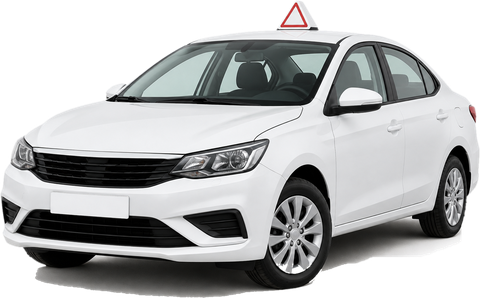
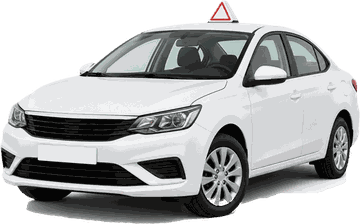
v1.144: gear toggles Settings, hide notification controls, lighter load
Claude-Session: https://claude.ai/code/session_01NZDyM4Sm4ow7Wf9g33mTnT

Changed region(s): [[0.5806, 0.0312, 0.6417, 0.0938], [0.9778, 0.375, 1.0, 0.4062], [0.6111, 0.9062, 0.6417, 0.9375]]

diff --git a/app.js b/app.js
@@ -1000,7 +1000,10 @@ document.querySelectorAll("[data-close]").forEach(b=>b.onclick=()=>b.closest("di
 ["wStart","wEnd"].forEach(id=>$(id).addEventListener("change",saveWork));
 const logMenuToggle=$("logMenuToggle"),showLogSettings=()=>{$("logRecordsPanel").classList.add("hidden");$("logSettingsPanel").classList.remove("hidden");renderPrayerPreview();$("logSettingsBack").focus();},showLogRecords=()=>{$("logSettingsPanel").classList.add("hidden");$("logRecordsPanel").classList.remove("hidden");};
 logMenuToggle.onclick=showLogSettings;
-const openSettings=()=>{document.querySelector('.tab[data-tab="log"]').click();showLogSettings();};$("hdrSettings").onclick=openSettings;$("hdrBell").onclick=()=>{openSettings();$("pushBox")?.scrollIntoView({block:"center"});};$("todayViewAll").onclick=()=>{document.querySelector('.tab[data-tab="calendar"]').click();setCalView("day");};$("prayerEdit").onclick=()=>{document.querySelector('.tab[data-tab="log"]').click();showLogSettings();$("pManualOn").scrollIntoView({block:"center"});};
+let settingsFrom=null;
+const settingsOpen=()=>document.querySelector(".tab.active")?.dataset.tab==="log"&&!$("logSettingsPanel").classList.contains("hidden");
+// The header gear toggles: the second tap closes Settings and returns to the screen it was opened from.
+const openSettings=()=>{if(settingsOpen()){showLogRecords();const back=settingsFrom&&settingsFrom!=="log"?settingsFrom:null;settingsFrom=null;if(back)document.querySelector(`.tab[data-tab="${back}"]`).click();return;}settingsFrom=document.querySelector(".tab.active")?.dataset.tab||null;document.querySelector('.tab[data-tab="log"]').click();showLogSettings();};$("hdrSettings").onclick=openSettings;$("hdrBell").onclick=()=>{openSettings();$("pushBox")?.scrollIntoView({block:"center"});};$("todayViewAll").onclick=()=>{document.querySelector('.tab[data-tab="calendar"]').click();setCalView("day");};$("prayerEdit").onclick=()=>{document.querySelector('.tab[data-tab="log"]').click();showLogSettings();$("pManualOn").scrollIntoView({block:"center"});};
 $("logSettingsBack").onclick=()=>{showLogRecords();logMenuToggle.focus();};
 initWaTemplateSettings();$("addRecordBtn").onclick=newExpense;$("overviewAddLesson").onclick=()=>newRecord();$("calAddBtn").onclick=addLessonOnSelectedDay;$("calPrev").onclick=()=>calMove(-1);$("calNext").onclick=()=>calMove(1);document.querySelectorAll("[data-view]").forEach(b=>b.onclick=()=>setCalView(b.dataset.view));$("addStudentBtn").onclick=newStudent;$("fType").onchange=toggleLessonFields;
 ["logFilter","logSort","studentSearch","studentFilter","studentSort","period","periodValue"].forEach(id=>$(id).addEventListener("input",render));

diff --git a/sw.js b/sw.js
@@ -1,4 +1,4 @@
-const CACHE="nahians-schedule-cache-v207";
+const CACHE="nahians-schedule-cache-v208";
 // The app shell (pages, scripts, styles, icons) is versioned: bump CACHE on every release.
 const FILES=["./", "./index.html", "./push-config.js", "./styles.css", "./app.js", "./reports-dashboard.js", "./islamic-content.js", "./islamic.js", "./full-time-students.js", "./lesson-recovery.js", "./prayer-times.js", "./mawaqit-times.js", "./manifest.webmanifest", "./icon.svg", "./brand-car.png", "./icon-192.png", "./icon-512.png", "./icon-maskable-512.png", "./apple-touch-icon.png"];
 // The Islamic audio files never change between releases, so they live in their own cache that survives version bumps
@@ -36,7 +36,7 @@ self.addEventListener("activate",event=>{
     caches.keys()
       .then(keys=>Promise.all(keys.filter(key=>key!==CACHE&&key!==AUDIO_CACHE).map(key=>caches.delete(key))))
       .then(()=>self.clients.claim())
-      .then(()=>{audioChecked=true;return ensureAudio();})
+      .then(()=>{audioChecked=true;return new Promise(r=>setTimeout(r,15000)).then(ensureAudio);})
   );
 });
 
@@ -49,7 +49,7 @@ self.addEventListener("fetch",event=>{
 
   if(request.mode==="navigate"){
     event.respondWith((async()=>{
-      if(!audioChecked){audioChecked=true;event.waitUntil(ensureAudio());}
+      if(!audioChecked){audioChecked=true;event.waitUntil(new Promise(r=>setTimeout(r,15000)).then(ensureAudio));}
       const cache=await caches.open(CACHE);
       const cached=(await cache.match(request,{ignoreSearch:true}))||(await cache.match("./index.html"));
       if(cached)return cached;

diff --git a/index.html b/index.html
@@ -185,7 +185,7 @@
           <p class="hint">With this on, these times are used for every day instead of the mosque or calculated times. Friday uses the Jum'a time above. A blank time falls back to the automatic time. Change them whenever the mosque changes.</p>
           <div id="prayerPreview" class="prayer-preview" aria-live="polite"></div>
         </section>
-        <p class="app-version" id="appVersion">Driving Log Pro · Version v1.143</p>
+        <p class="app-version" id="appVersion">Driving Log Pro · Version v1.144</p>
         <p class="settings-note">These settings are saved with your app data and included in backup and sync. Lesson timer and completed-hour accounting are not affected.</p>
       </section>
     </section>
@@ -508,7 +508,7 @@
     <button class="tab" data-tab="islamic"><svg viewBox="0 0 24 24" width="22" height="22" fill="none" stroke="currentColor" stroke-width="1.9" stroke-linecap="round" stroke-linejoin="round" aria-hidden="true"><path d="M3 20h18"/><path d="M6.5 20v-6.5c0-3 2.5-5 5.5-6.5 3 1.5 5.5 3.5 5.5 6.5V20"/><path d="M12 4.5v2.5"/><path d="M10 20v-3a2 2 0 0 1 4 0v3"/><path d="M3.5 20v-8M20.5 20v-8"/></svg><span>Islamic</span></button>
   </nav>
   <div id="toast" role="status" aria-live="polite"></div>
-  <footer><span>Driving Log Pro</span><span>Personal business manager · v1.143</span></footer>
+  <footer><span>Driving Log Pro</span><span>Personal business manager · v1.144</span></footer>
   <script src="push-config.js"></script>
   <script src="prayer-times.js"></script>
   <script src="mawaqit-times.js"></script>

diff --git a/tests/settings-toggle.test.js b/tests/settings-toggle.test.js
@@ -1,0 +1,9 @@
+const test=require("node:test"),assert=require("node:assert"),fs=require("fs");
+const app=fs.readFileSync(__dirname+"/../app.js","utf8"),css=fs.readFileSync(__dirname+"/../styles.css","utf8");
+test("v1.144: the header gear toggles Settings and returns to the screen it was opened from",()=>{
+  assert.match(app,/const openSettings=\(\)=>\{if\(settingsOpen\(\)\)\{showLogRecords\(\);/);
+  assert.match(app,/settingsFrom=document\.querySelector\("\.tab\.active"\)/);
+});
+test("v1.144: lock-screen notification controls are hidden, not removed",()=>{
+  assert.ok(css.includes("#hdrBell,#pushBox{display:none!important}"));
+});

diff --git a/styles.css b/styles.css
@@ -3826,3 +3826,6 @@ body.timing #overview #nextCard{display:none}
 #overview #prayerCard .pc-time{padding:7px 16px;background:linear-gradient(180deg,#ffc933,#f5a800);box-shadow:0 5px 12px #f5a80040;font-size:21px}
 #overview #prayerCard .pc-left{margin-top:1px}
 @media(prefers-reduced-motion:reduce){#overview .lp-active .lp-disc{animation:none}#overview .nextcard .nextbtn{transition:none}}
+
+/* v1.144 — lock-screen notification controls are hidden until the push backend exists (elements and IDs kept) */
+#hdrBell,#pushBox{display:none!important}

diff --git a/PROJECT_STATE.md b/PROJECT_STATE.md
@@ -1,3 +1,9 @@
+## v1.144 — Settings gear toggles; notification controls hidden; lighter load (2026-11-19; owner: pre-release clean-up)
+- **Bug:** tapping the header gear again re-opened Settings logic via the Log tab, so it did not close. Now the gear toggles: second tap closes Settings and returns to the screen it was opened from (Overview/Calendar/…); from the Log tab it returns to the records. "Back to Records" unchanged.
+- The Lock-screen Notifications card (`#pushBox`) and the header bell (`#hdrBell`, which only led to that card) are hidden by CSS; elements, IDs and push code are kept for when the Web Push backend is deployed.
+- **Performance audit** (Chromium, synthetic 1,500 lessons / 120 students): every tab opens in 4–36 ms, full `render()` 113 ms, ~4,200 DOM nodes, 12 requests, ~0.6 MB text before compression. No slow JS path found. Changes: `brand-car.png` 168 KB → 17 KB (same look); the service worker now waits 15 s before filling the ~11 MB audio cache so it does not compete with opening the app. Remaining known load costs (not changed, owner decision / larger work): the audio files are downloaded once in the background on first install; `styles.css` (260 KB) contains layered per-release overrides that could be consolidated in a dedicated, carefully tested clean-up; cloud sync runs on open when configured.
+- Files: `app.js`, `styles.css`, `index.html` (v1.144), `sw.js` (cache v208), `brand-car.png`, `tests/settings-toggle.test.js` (new), this file.
+
 ## v1.143 — Smoother Overview polish (2026-11-19; owner: "I want it to look nice and smooth")
 - CSS only: soft layered shadows without borders, gentle blue/amber tints on the Next-lesson / Prayer cards, gradient step dots (the current lesson has a slow pulsing ring, off with reduced-motion), gradient Start/time buttons with a pressed state, borderless Edit link. No markup, logic or data change.
 - Files: `styles.css`, `index.html` (v1.143), `sw.js` (cache v207), this file.
